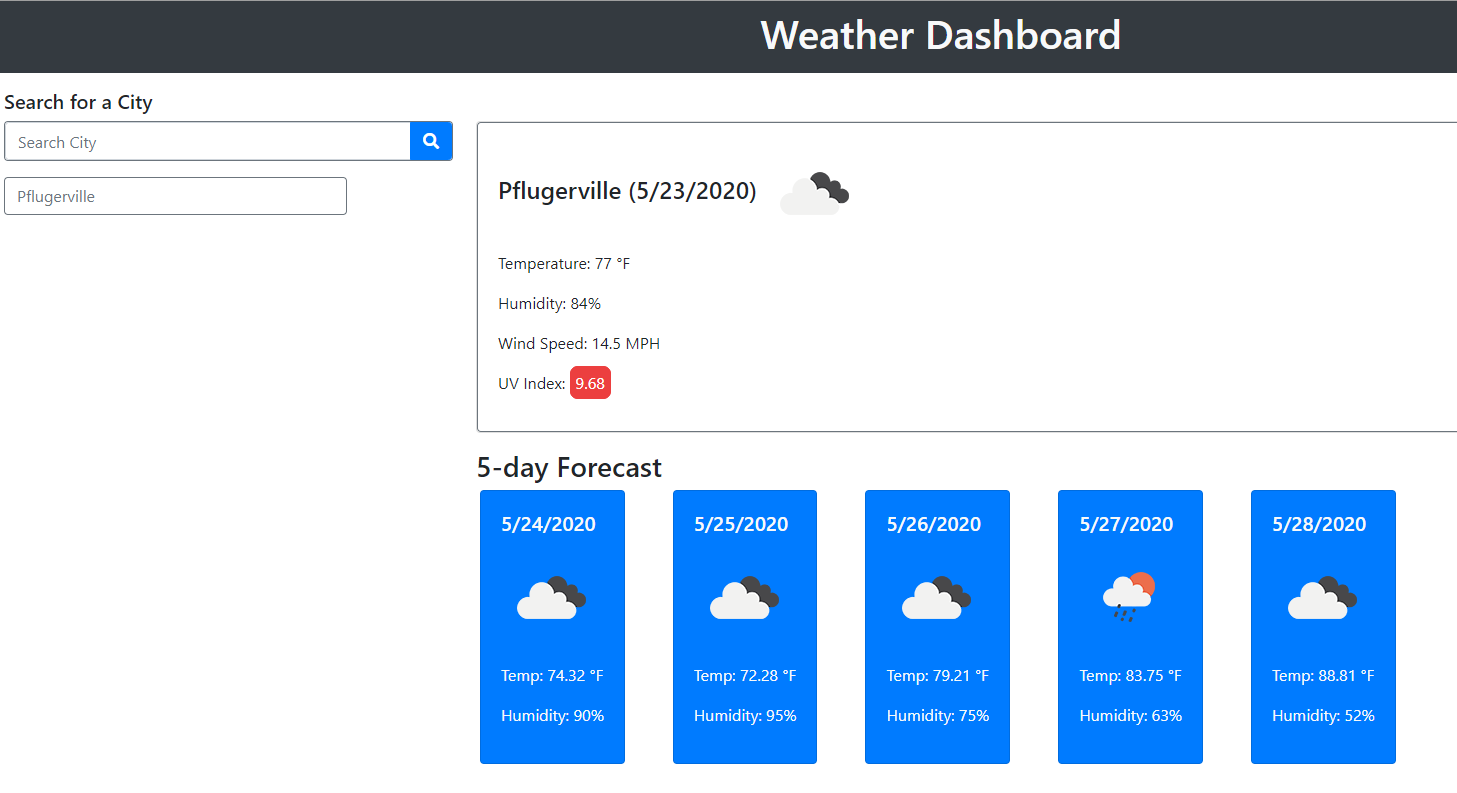
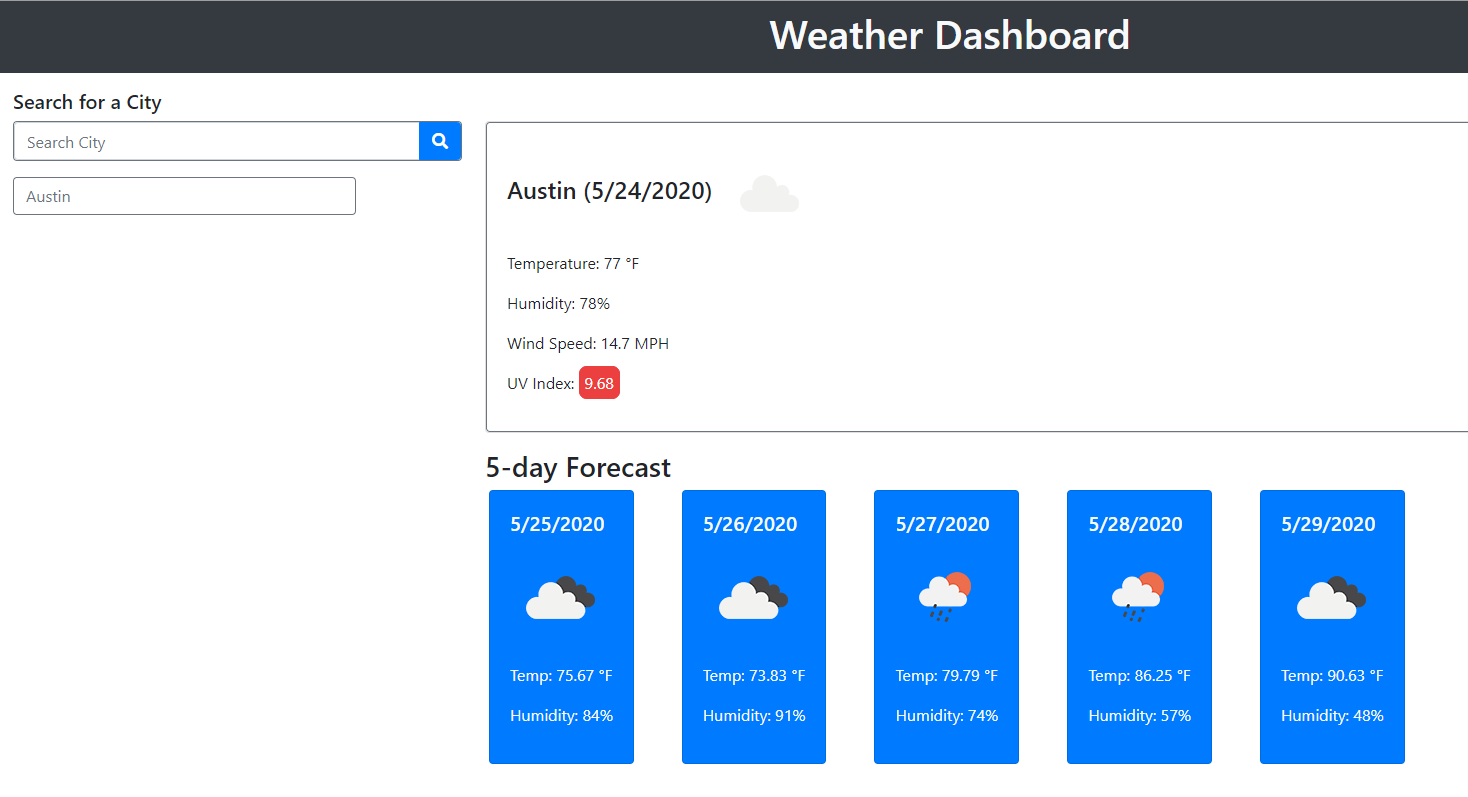
cleaned up any typos and made final update to weather dashboard screenshot

diff --git a/README.md b/README.md
@@ -1,25 +1,25 @@
 # Homework Assignment 6 - Weather Dashboard App
 
-The purpose of this homwork assignment was to build a weather dashboard that will run within a browser and use [OpenWeather API](https://openweathermap.org/api) as a third-party API to retrieve weather data for any searched city. I have included a sample screenshot for my weather dashboard at the bottom of this ReadMe markdown document.
+The purpose of this homwork assignment was to build a weather dashboard that will run within a browser and use [OpenWeather API](https://openweathermap.org/api) as a third-party API to retrieve weather data for any searched city entered in the dashboard. I have included a sample screenshot of my weather dashboard in the last section of this document.
 
-As specified in this homework assignment's instructions, I developed the browser to meet the following requirements:
+As specified in the homework assignment's instructions, I developed the browser to meet the following requirements:
 
 - Run in the browser with a responsive layout.
 - Feature dynamically updated HTML and CSS.
 - Access weather data by using the [OpenWeather API](https://openweathermap.org/api).
-- Meets all acceptance criteria (included below).
-- Uses `localStorage` to store any persistent data.
+- Meet all acceptance criteria (included below).
+- Use `localStorage` to store any persistent data.
 
 ## Links to My Weather Dashboard App and GitHub Repo
 
-In the content below, I included links to (a) my weather dashboard app and (b) the associated GitHub repo that I used to develop this app.
+In the content below, I included links to both (a) my weather dashboard app and (b) the associated GitHub repo that I used to develop this app.
 
 - GitHub Repo - [https://github.com/KEDuran/Weather_Dashboard](https://github.com/KEDuran/Weather_Dashboard)
 - Link to My Weather Dashboard App - [https://keduran.github.io/Weather_Dashboard/](https://keduran.github.io/Weather_Dashboard/)
 
 ## Assignment Scope
 
-In this section, I included the specific user story and acceptance criteria that was included in this homework assignment's instructions.
+In this section, I included the specific user story and acceptance criteria that was included in the homework assignment's instructions.
 
 I also included a notes/FYI section below that provide additional details surrounding my approach for developing this weather dashboard.
 
@@ -49,19 +49,19 @@ WHEN I open the weather dashboard
 THEN I am presented with the last searched city forecast
 ```
 
-### Notes on My Approach
+### Notes to Consider for My Developer Approach
 
 #### Last Searched City Logic
 
-Based on the acceptance criteria outlined above, I developed the weather app to repopulate the weather dashboard data upon refresh for the last city that was actually searched by being typed into the search city input item and then followed by actually clicking on the search button. _Any click activity within the city search history buttons will not trigger any "stored last city searched" logic_.
+Based on the acceptance criteria outlined above, I developed the weather dashboard app to repopulate weather data upon refresh for the last city that was actually searched by (a) being typed into the search city input item and (b) then followed by clicking on the search button. _Any click activity within the city search history buttons will not trigger any "stored last city searched" logic included in the script.js file_.
 
-#### Auto Default for No Search History
+#### Auto Default for No Search History Scenario
 
-The weather dashboard is also designed to automatically default and populate Austin, Texas weather data if no city was previously searched. The last searched city I entered for testing was Pflugerville, TX so my sample screenshot below shows weather data for Pflugerville, TX as of Saturday (5/23/2020) night.
+The weather dashboard is also designed to automatically populate Austin, Texas weather data if no previous city search history is avaliable. The weather dashboard screenshot below shows the weather data for Austin, Texas.
 
 #### Applied United States EPA UV Index Categories
 
-Before starting this homework assignment, I conducted some additional research regarding UV index categories. Based on my research, the [United States Environmental Protection Agency](https://www.epa.gov/sunsafety/uv-index-1), there are five UV index categories. As a result, I used the following five categories to determine the coloration of the UV index readings in the weather dashboard app.
+Before starting this homework assignment, I conducted some additional research regarding UV index categories. Based on my research, the [United States Environmental Protection Agency](https://www.epa.gov/sunsafety/uv-index-1) measures UV index according to five categories - demonstrated in the UV index screenshot below. As a result, I used the following five categories when applying the coloration categories for the UV index readings in the weather dashboard app.
 
 ![US EPA UV Index Categories](./Assets/Images/UV_Index.png)
 
